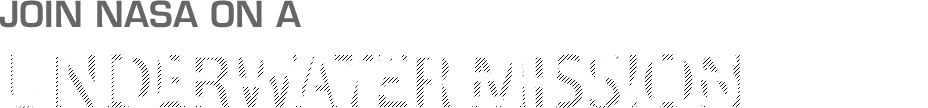
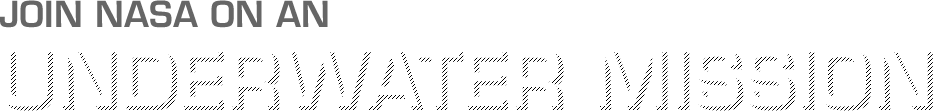
Fixed misspelling on the title. Removed about links

Changed region(s): [[0.0, 0.4722, 1.0, 1.0], [0.0, 0.0, 0.375, 0.25], [0.9688, 0.4722, 1.0, 0.5]]

diff --git a/app/public/css/style.css b/app/public/css/style.css
@@ -637,7 +637,7 @@ nav ul {
 
 #slideshow {
   width:9999px;
-  margin-left:-90px;
+  margin-left:-290px;
   left:50%;
   height:610px;
   position:absolute;
